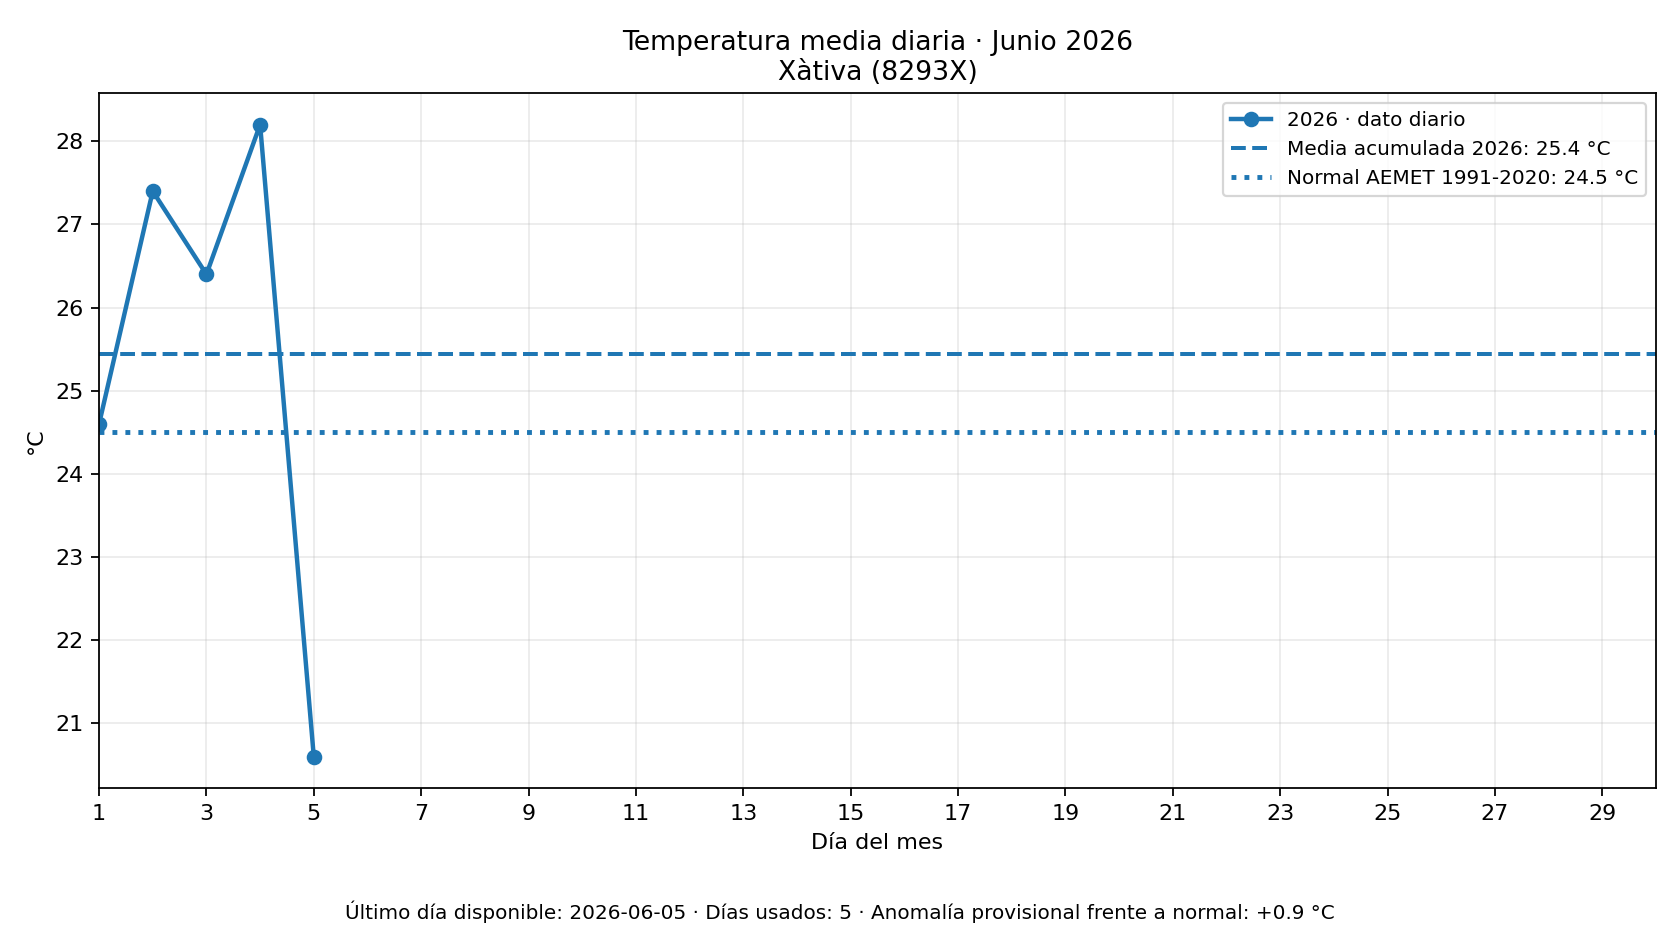
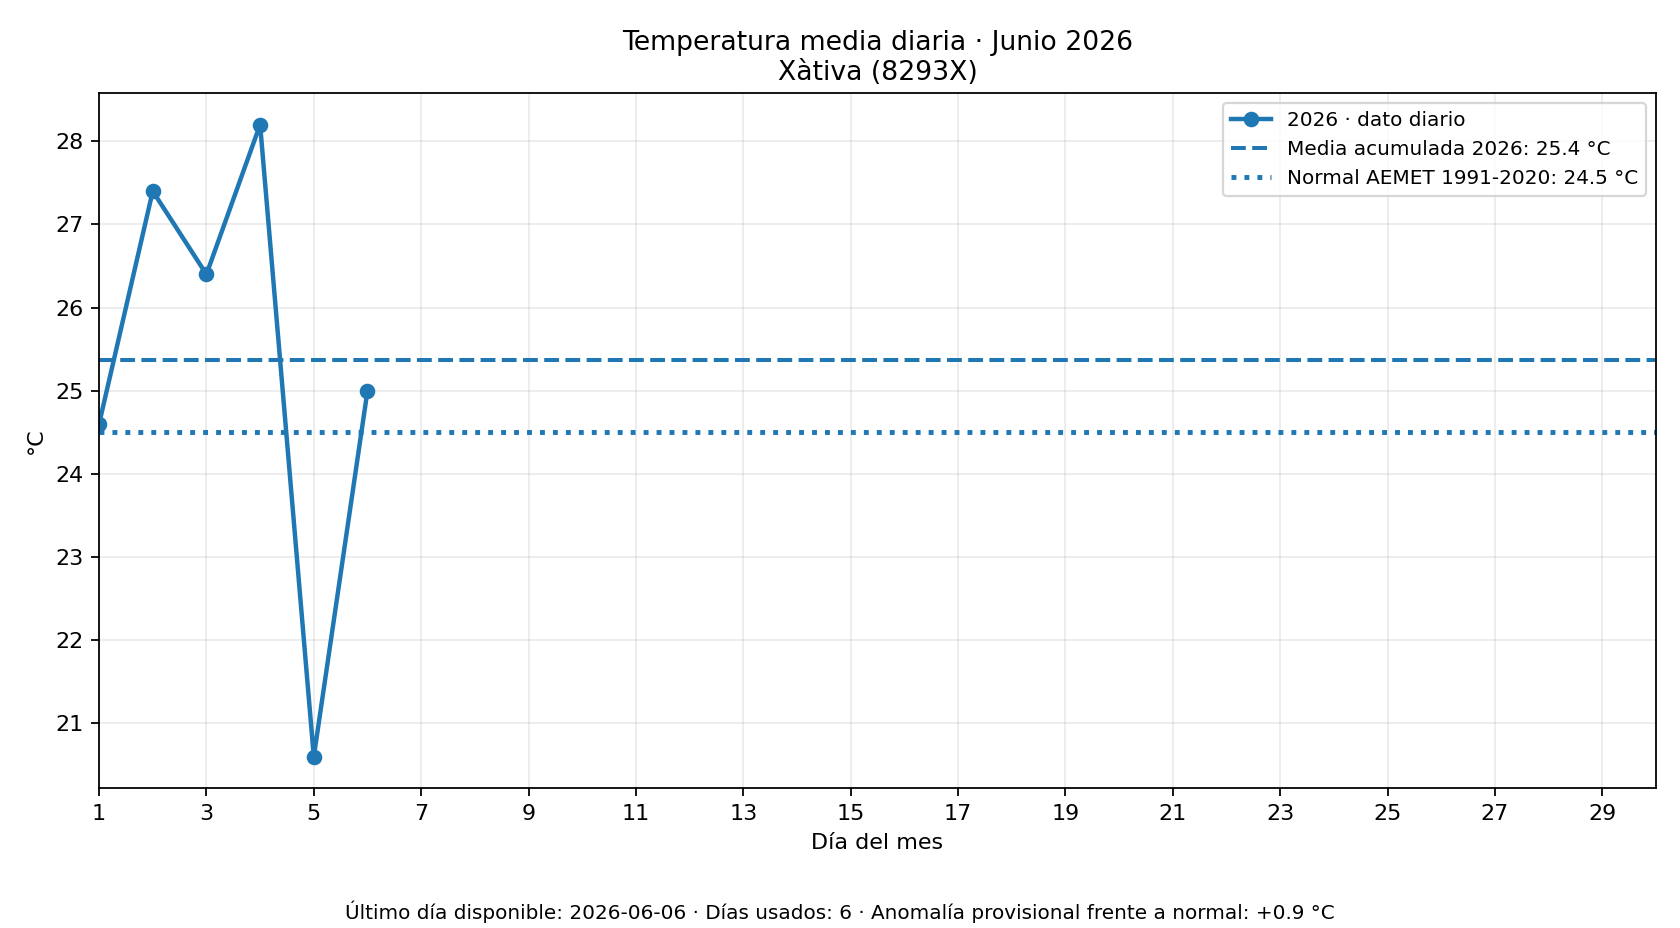
Actualizar clima AEMET

Changed region(s): [[0.0619, 0.375, 0.9905, 0.4375], [0.1857, 0.4688, 0.2167, 0.7812]]

diff --git a/docs/clima/index.html b/docs/clima/index.html
@@ -104,7 +104,7 @@
 <p><strong>Periodo:</strong> Junio 2026</p>
 <p><strong>Referencia:</strong> normal climática oficial AEMET 1991-2020 del mismo mes</p>
 <p><strong>Variables:</strong> Temperatura media mensual</p>
-<p><strong>Actualización del visor:</strong> 08/06/2026 21:11 hora peninsular</p>
+<p><strong>Actualización del visor:</strong> 09/06/2026 19:36 hora peninsular</p>
 </section>
 <main class="grid">
 <section class="estacion">
@@ -112,12 +112,12 @@
 <article class="variable">
 <h3>Temperatura media mensual</h3>
 <div class="datos">
-<div class='dato'><strong>23.5</strong>Media actual °C</div>
+<div class='dato'><strong>23.4</strong>Media actual °C</div>
 <div class='dato'><strong>23.3</strong>Normal 1991-2020 °C</div>
-<div class='dato'><strong>+0.2</strong>Anomalía °C</div>
+<div class='dato'><strong>+0.1</strong>Anomalía °C</div>
 </div>
 <img src='graficos/8416_tmed_202606_normal_1991_2020.png' alt='Temperatura media mensual en València'>
-<p class='codigo'>Último día disponible: 2026-06-05 · Días usados: 5</p>
+<p class='codigo'>Último día disponible: 2026-06-06 · Días usados: 6</p>
 </article>
 </section>
 <section class="estacion">
@@ -130,7 +130,7 @@
 <div class='dato'><strong>+0.9</strong>Anomalía °C</div>
 </div>
 <img src='graficos/8293X_tmed_202606_normal_1991_2020.png' alt='Temperatura media mensual en Xàtiva'>
-<p class='codigo'>Último día disponible: 2026-06-05 · Días usados: 5</p>
+<p class='codigo'>Último día disponible: 2026-06-06 · Días usados: 6</p>
 </article>
 </section>
 </main>
